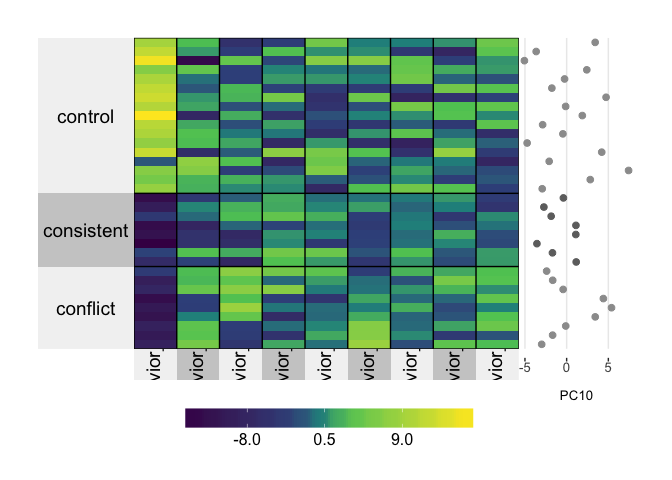
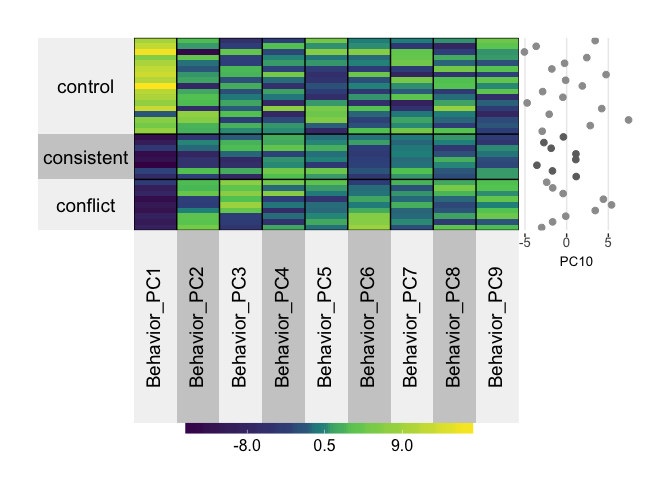
now with superheat

diff --git a/RmdFiles/04_integration.md b/RmdFiles/04_integration.md
@@ -152,7 +152,7 @@ sh2 <- superheat(X = behaviorpca[,-c(10,11,12)],
                 yr.axis.name = "PC10",
                 membership.rows = behaviorpca$APA,
                 pretty.order.cols = TRUE,
-                bottom.label.size = 0.2,
+                bottom.label.size = 1,
                 bottom.label.text.angle = 90)
 ```
 
